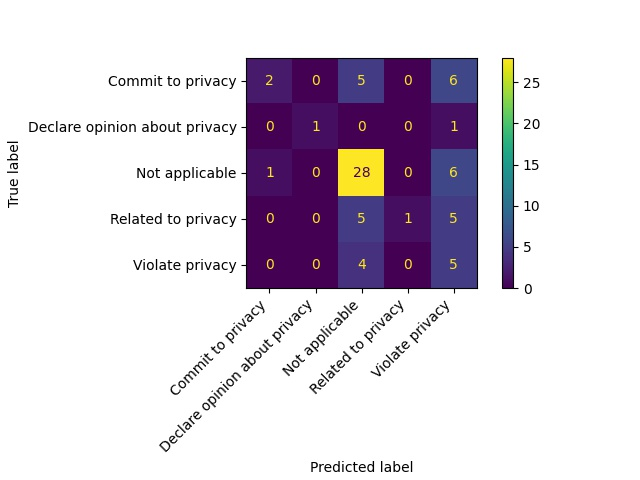
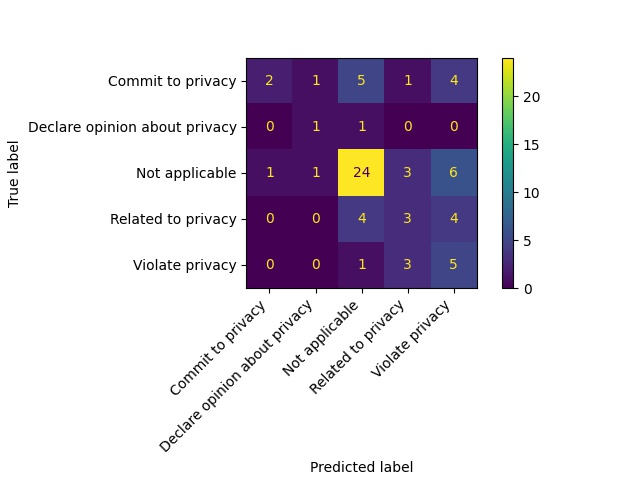
AI classifier configurations: initial + binary word representation + n_estimators 50 + learning rate: 1.2

diff --git a/AIclassifier.py b/AIclassifier.py
@@ -136,7 +136,7 @@ dev_labels_primary = create_labels_array(labels_dev)
 # CLASSIFIER
 
 # Configurations
-adaclassifier = AdaBoostClassifier(n_estimators=50, learning_rate=1.1) # n_est 25, 50, 75, 100,200, 300 lr 0.5, 1
+adaclassifier = AdaBoostClassifier(n_estimators=50, learning_rate=1.2) # n_est 25, 50, 75, 100,200, 300 lr 0.5, 1
 
 # FLAG - CHECK WHICH CONFIGURATIONS SHOULD BE HERE - checked
 
